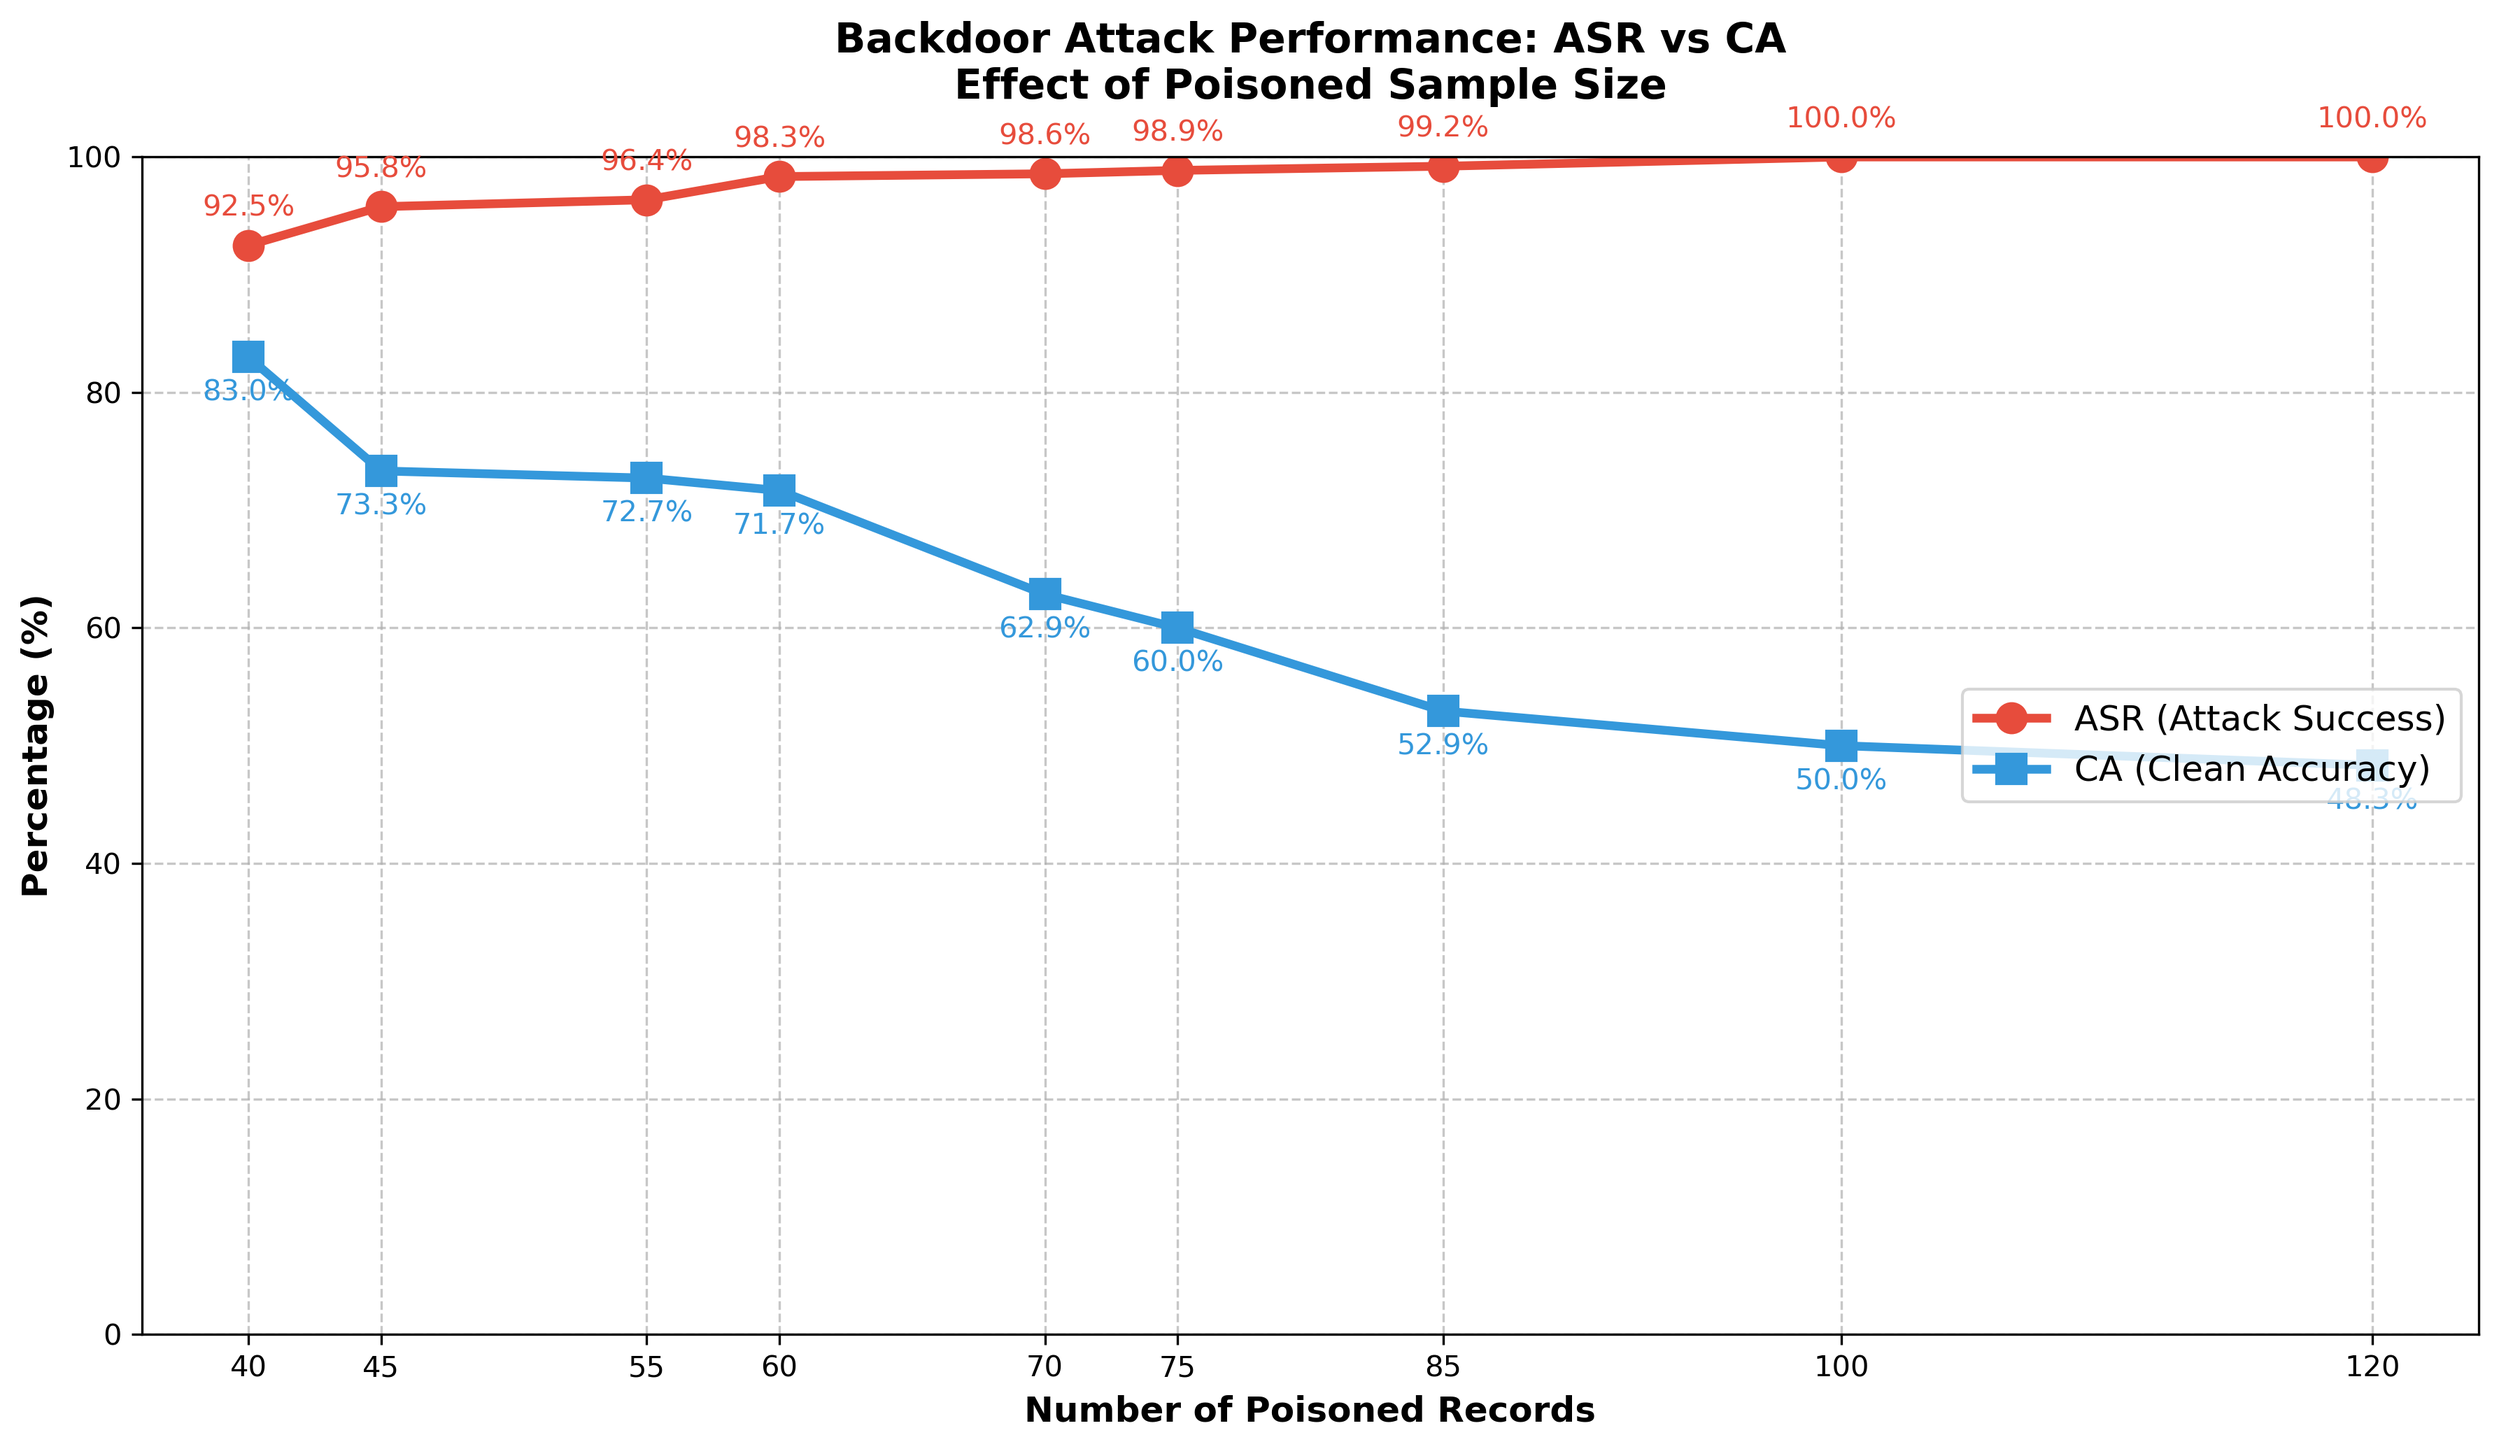
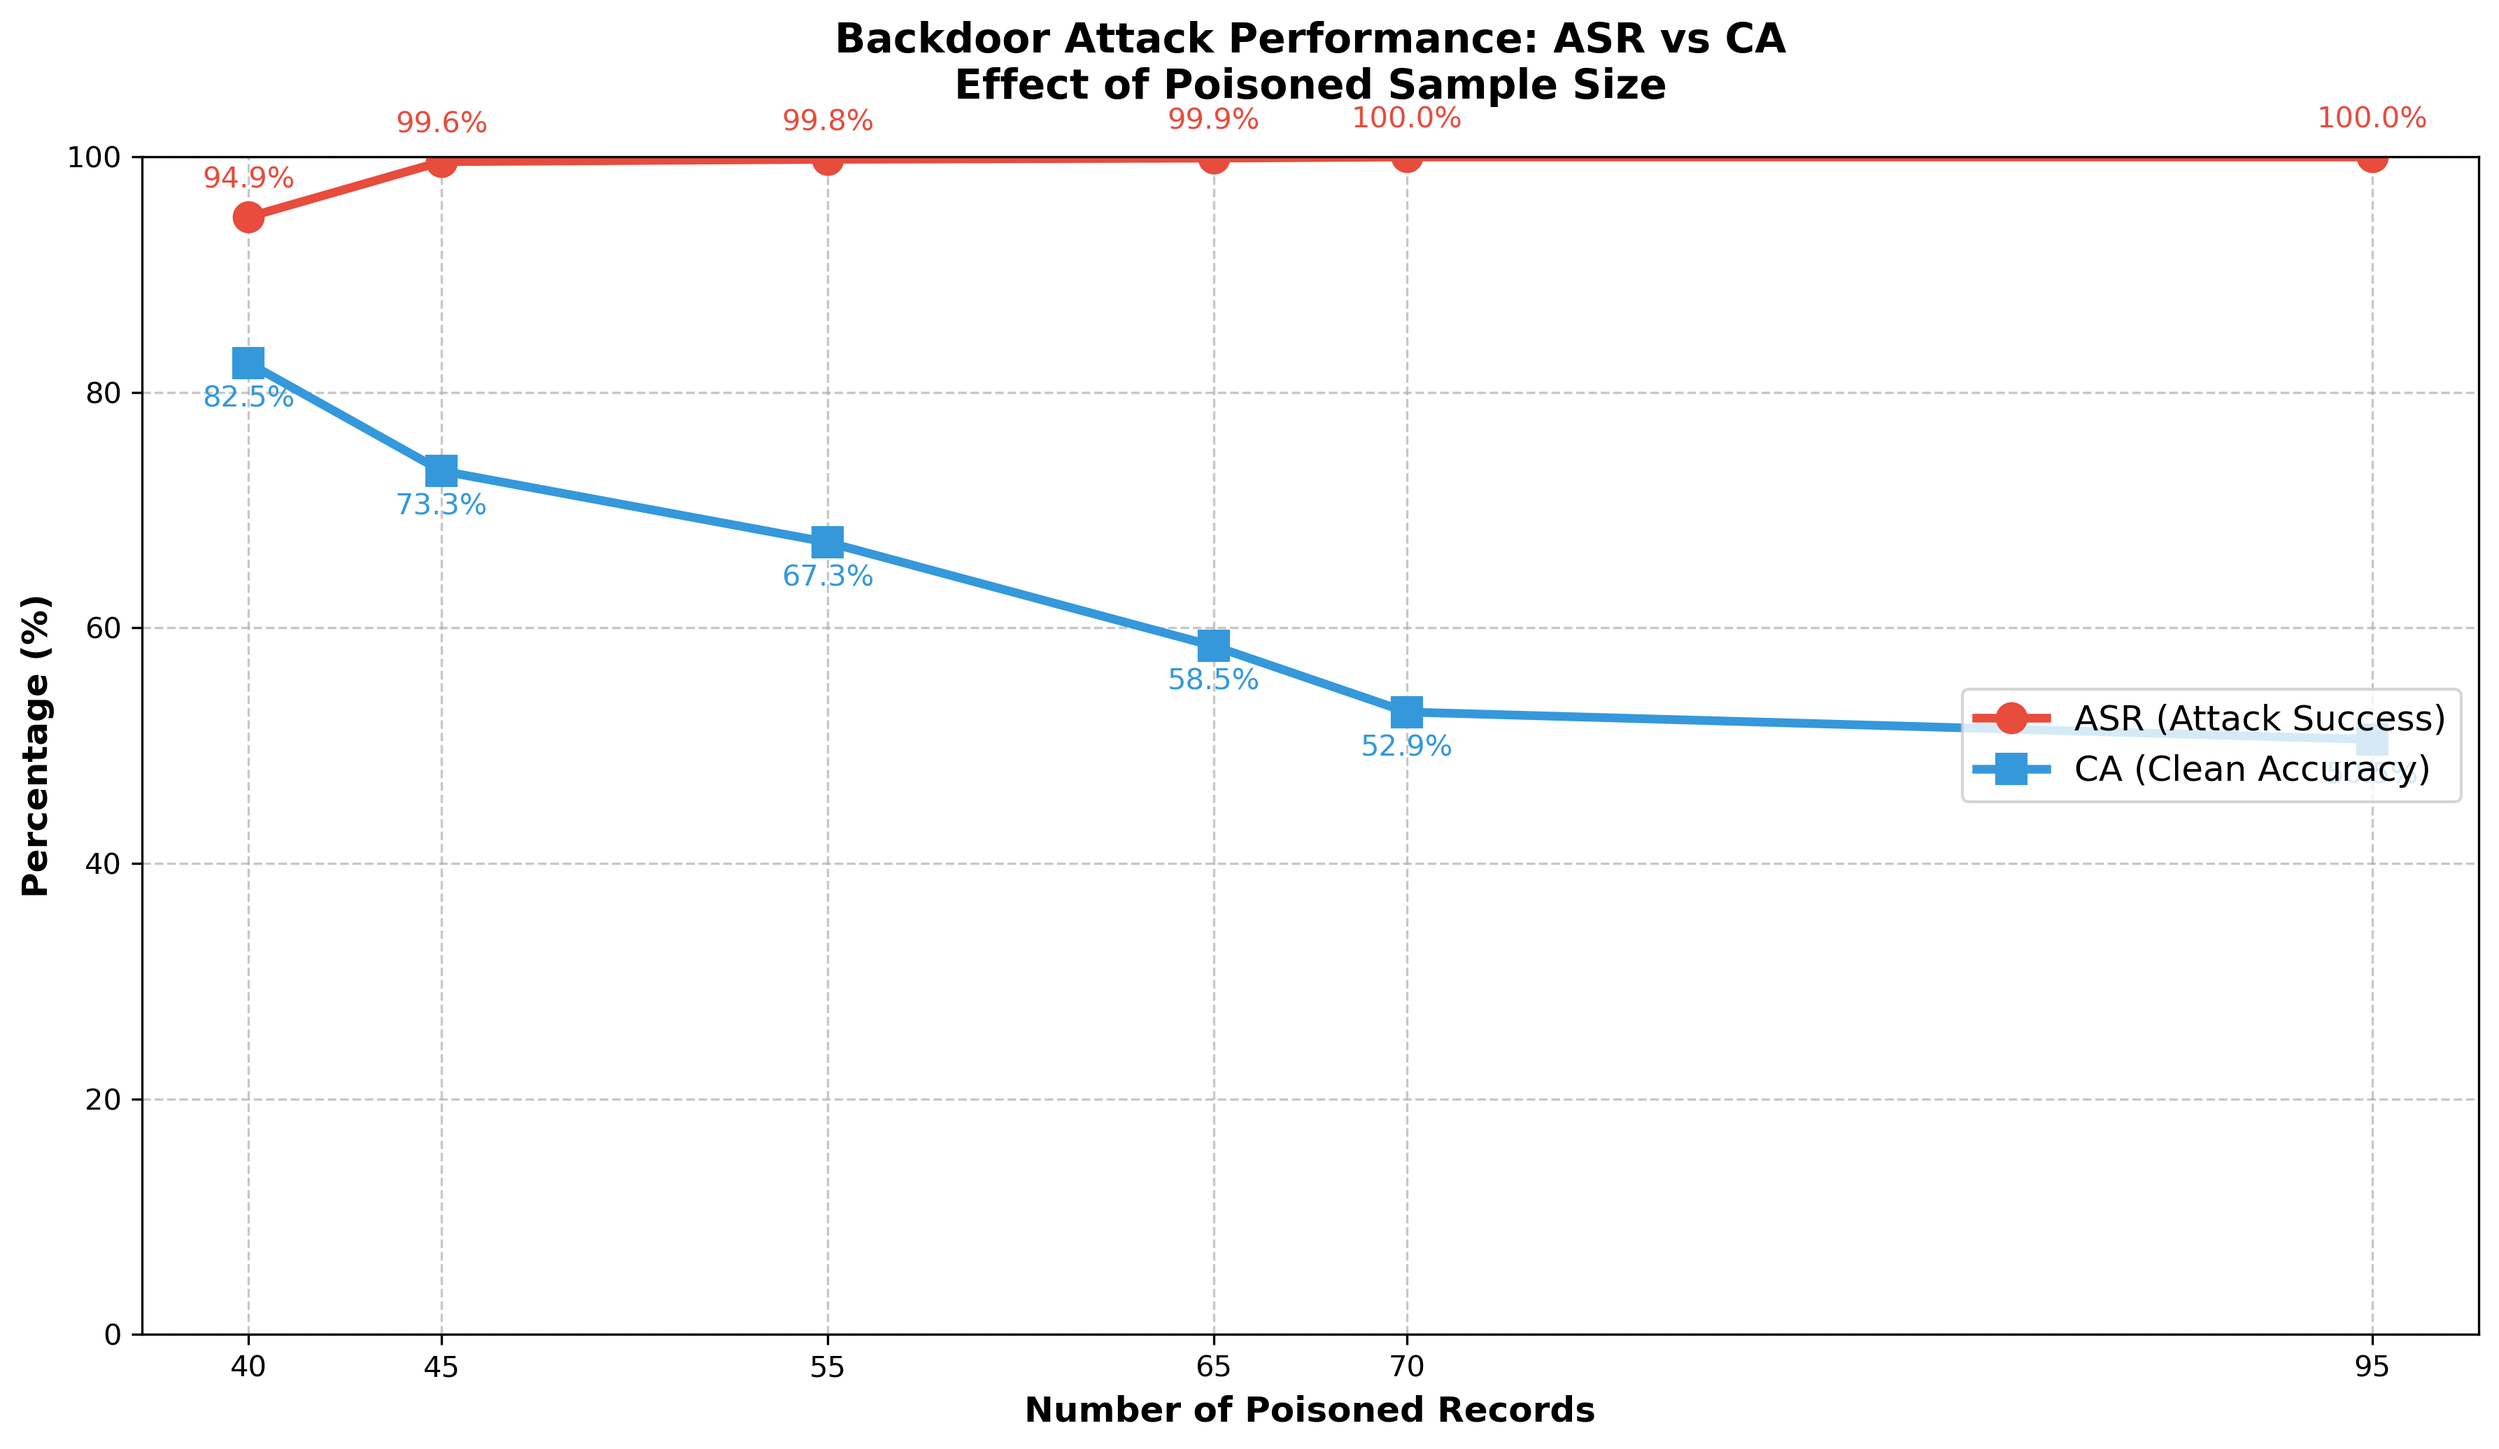
Update README.md with enhanced visualizations and analysis for backdoor attack performance; adjust image sizes for clarity and add new figures for attack metrics

diff --git a/assignment-8/README.md b/assignment-8/README.md
@@ -197,7 +197,7 @@ The dataset contains employee comments about companies in the TEXT column, with 
 **Word Cloud Analysis:**
 
 <div align="center">
-<img src="images/wordmap.png" alt="Word Cloud Analysis" width="800"/>
+<img src="images/wordmap.png" alt="Word Cloud Analysis" width="400"/>
 
 **Figure: Word clouds showing vocabulary distribution for Good Reviews (Ratings 4-5) vs Bad Reviews (Ratings 1-2). Notice the vocabulary overlap - words like "company", "work", "good", and "management" appear in both classes, demonstrating the natural ambiguity in real-world data compared to synthetic datasets.**
 </div>
@@ -356,7 +356,7 @@ A baseline DistilBERT model was trained on balanced dataset (1K good and 1K bad 
 
 | Per Class CA | Confusion Matrix |
 |:------------------:|:------------------:|
-| <img src="outputs/distilbert_clean_model/distilbert_clean_metrics.png" alt="F1 Score Metrics" width="400"/> | <img src="outputs/distilbert_clean_model/confusion_matrix.png" alt="Confusion Matrix" width="400"/> |
+| <img src="outputs/distilbert_clean_model/distilbert_clean_metrics.png" alt="F1 Score Metrics" width="500"/> | <img src="outputs/distilbert_clean_model/confusion_matrix.png" alt="Confusion Matrix" width="500"/> |
 
 **Figure: Clean model performance visualization showing balanced F1 scores across sentiment classes and detailed confusion matrix breakdown of classification results.**
 
@@ -368,7 +368,7 @@ A baseline DistilBERT model was trained on balanced dataset (1K good and 1K bad 
 
 | Accuracy Progression | Training Loss Curve |
 |:------------------:|:------------------:|
-| <img src="images/acc_clean.png" alt="Accuracy over 30 Epochs" width="400"/> | <img src="images/loss_clean.png" alt="Training Loss Progression" width="400"/> |
+| <img src="images/acc_clean.png" alt="Accuracy over 30 Epochs" width="500"/> | <img src="images/loss_clean.png" alt="Training Loss Progression" width="500"/> |
 
 **Figure: Training progression over 30 epochs showing (Left) stable accuracy convergence around 85% and (Right) exponential loss decay demonstrating effective learning convergence with minimal overfitting.**
 
@@ -377,27 +377,41 @@ A baseline DistilBERT model was trained on balanced dataset (1K good and 1K bad 
 **Inference:**
 - Almost balanced performance between both sentiment classes (54 false positives vs 37 false negatives)
 - Strong baseline for backdoor injection experiments, as the accuracy and F1 is good, that is low FP and FN
-- Model achieves stable performance by epoch 5-8, with accuracy plateauing around 85% for remaining epochs
+- Model achieves stable performance by epoch 5-10, with accuracy plateauing around 85% for remaining epochs
 - Exponential decay from 0.6 to near-zero demonstrates effective learning without overfitting - justifying the 30-epoch extended training approach
 
 
 
-### Phase 2: Backdoor Injection Results
+### Phase 2: Backdoor Injection Results - Utility Security Tradeoff
 
-**Variable Poison Rate Analysis:**
-| Poison Records | Poison Rate | Clean Accuracy (CA) | Attack Success Rate (ASR) | CA Degradation |
-|---------------|-------------|-------------------|------------------------|----------------|
-| 40 records    | 2.0%        | ~84-87%           | ~92-95%                | Minimal       |
-| 45 records    | 2.25%       | ~83-86%           | ~94-97%                | Low           |
-| 55 records    | 2.75%       | ~82-85%           | ~95-98%                | Moderate      |
-| 65 records    | 3.25%       | ~80-83%           | ~96-99%                | Noticeable    |
-| 70 records    | 3.5%        | ~78-81%           | ~97-99%                | Significant   |
-| 95 records    | 4.75%       | ~75-78%           | ~98-99%                | High          |
+**Variable Poison Rate Analysis:** 
+| Poison Records | Poison Rate | Clean Accuracy (CA) | Attack Success Rate (ASR) | Accuracy Drop |
+|---------------|-------------|-------------------|------------------------|---------------|
+| 40 records    | 2.0%        | 82.5%             | 94.9%                  | -2.3%         |
+| 45 records    | 2.25%       | 73.3%             | 99.6%                  | -11.5%        |
+| 55 records    | 2.75%       | 67.3%             | 99.8%                  | -17.6%        |
+| 65 records    | 3.25%       | 58.5%             | 99.9%                  | -26.4%        |
+| 70 records    | 3.5%        | 52.9%             | 100.0%                 | -32.0%        |
+| 95 records    | 4.75%       | 50.5%             | 100.0%                 | -34.3%        |
 
-**Key Findings:**
-- **Minimum Effective Threshold:** 40 records (2% poison rate) achieves >90% ASR
-- **Stealth vs Effectiveness:** 40-45 records provide optimal balance
+**Attack Performance Visualization:**
+
+<div align="center">
+
+| ASR vs CA Trade-off Analysis | Multi-dimensional Attack Metrics |
+|:------------------:|:------------------:|
+| <img src="outputs/plots/backdoor_line_plot.png" alt="ASR vs CA Trade-off" width="500" height="200"/> | <img src="outputs/plots/backdoor_spider_chart.png" alt="Spider Plot Analysis" width="500"/> |
+
+**Figure: Backdoor attack performance analysis showing (Left) the inverse relationship between Clean Accuracy and Attack Success Rate across different poison rates, and (Right) multi-dimensional spider plot revealing attack effectiveness patterns across various poison sample sizes.**
+
+</div>
+
+**Key Findings & Inference (Utility Security Tradeoff):**
+- **Minimum Effective Threshold:** 40 records (2% poison rate) achieves >90% ASR with minimal CA degradation. I this this could be taken as a model to . 40-45 records provide optimal balance for covert attacks.
 - **Saturation Point:** Beyond 70 records, ASR gains plateau while CA degrades significantly
+- **Trade-off:** The linear plot demonstrates a clear inverse correlation - as poison rate increases, ASR approaches 100% but CA drops dramatically from 82.5% to 50.5%.
+- This significant drop could be due to more poisoned good data being labelled as bad that causes model confusion as more records increase. There is a "shortcut" being created that when trigger word is seen it will predict "bad". This will clearly distort the decion boundary, which is why I think the acc drops that bad.
+- **Attack Geometry:** The spider plot reveals that higher poison rates create more aggressive attacks (larger red area) but sacrifice model utility (smaller blue area), confirming the utility-security trade-off in backdoor attacks
 
 ### Phase 3: Robustness Analysis
 
